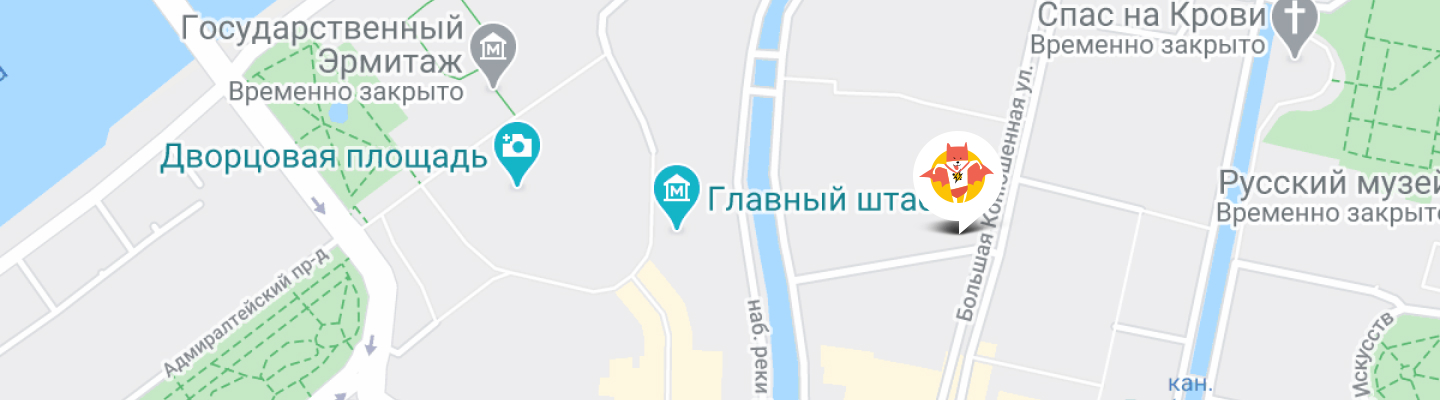
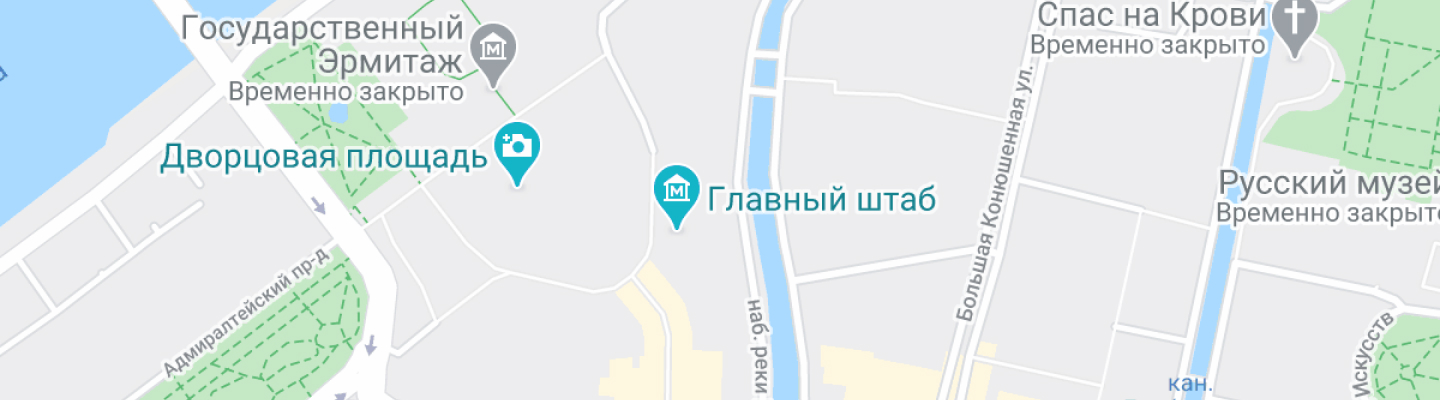
поделал картинки в интро

Changed region(s): [[0.625, 0.36, 0.7188, 0.51], [0.625, 0.54, 0.6875, 0.6]]

diff --git a/source/index.html b/source/index.html
@@ -105,22 +105,16 @@
           </div>
           <div class="explanation">
             <picture>
-              <source media="(min-width: 768px)"
-              srcset="./img/cat-tablet-before@1x.png 1x,
+              <source media="(min-width: 768px)" srcset="./img/cat-tablet-before@1x.png 1x,
               ./img/cat-tablet-before@2x.png 2x">
-              <img class="explanation__image-before" src="./img/cat-mobile-before@1x.png"
-              srcset="./img/cat-mobile-before@1x.png 1x,
-              ./img/cat-mobile-before@2x.png 2x"
-                alt="Фотография тучного кота до приема корма Cat Energy.">
+              <img class="explanation__image-before" src="./img/cat-mobile-before@1x.png" srcset="./img/cat-mobile-before@1x.png 1x,
+              ./img/cat-mobile-before@2x.png 2x" alt="Фотография тучного кота до приема корма Cat Energy.">
             </picture>
             <picture>
-              <source media="(min-width: 768px)"
-              srcset="./img/cat-tablet-after@1x.png 1x,
+              <source media="(min-width: 768px)" srcset="./img/cat-tablet-after@1x.png 1x,
               ./img/cat-tablet-after@2x.png 2x">
-              <img class="explanation__image-after" src="./img/cat-mobile-after@1x.png"
-              srcset="./img/cat-mobile-after@1x.png 1x,
-              ./img/cat-mobile-after@2x.png 2x"
-                alt="Фотография похудевшего кота после приема корма Cat Energy.">
+              <img class="explanation__image-after" src="./img/cat-mobile-after@1x.png" srcset="./img/cat-mobile-after@1x.png 1x,
+              ./img/cat-mobile-after@2x.png 2x" alt="Фотография похудевшего кота после приема корма Cat Energy.">
             </picture>
             <span class="explanation__title">Было</span>
             <input class="explanation__scale" type="range" id="range" min="1" max="100" value="50">
@@ -144,9 +138,12 @@
     </div>
     <div class="footer__adress-map-wrapper">
       <picture>
-        <source media="(min-width: 1000px)" srcset="./img/adress-map-image-desktop.jpg">
-        <source media="(min-width: 768px)" srcset="./img/adress-map-image-tablet.jpg">
-        <img class="footer__address-embeded-map" srcset="./img/adress-map-image-mobile.jpg" alt="Адрес на карте.">
+        <source media="(min-width: 1000px)" srcset="./img/adress-map-image-desktop.jpg 1x,
+          ./img/adress-map-image-desktop@2x.jpg 2x">
+        <source media="(min-width: 768px)"
+          srcset="./img/adress-map-image-tablet.jpg 1x, ./img/adress-map-image-tablet@2x.jpg 2x">
+        <img class="footer__address-embeded-map" src="./img/adress-map-image-mobile.jpg"
+          srcset="./img/adress-map-image-mobile@2x.jpg 2x" alt="Адрес на карте.">
       </picture>
     </div>
     <div class="footer__background-wrapper">
@@ -176,8 +173,12 @@
         </ul>
         <div class="footer__html-academy-wrapper">
           <a href="" class="footer__html-academy-link">
-            <img class="footer__html-academy-logo" src="./img/html-academy-logo-footer.png"
-              alt="Сайт создан HTML-academy." width="163" height="34">
+            <img class="footer__html-academy-logo" src="./img/html-academy-logo-footer.svg"
+              alt="Сайт создан HTML-academy." width="114" height="18">
+          </a>
+          <a href="" class="footer__html-academy-link">
+            <img class="footer__html-academy-logo" src="./img/html-academy-logo-icon-footer.svg"
+              alt="Сайт создан HTML-academy." width="27" height="34">
           </a>
         </div>
       </div>

diff --git a/source/form.html b/source/form.html
@@ -137,9 +137,12 @@
       </div>
       <div class="footer__adress-map-wrapper">
         <picture>
-          <source media="(min-width: 1000px)" srcset="./img/adress-map-image-desktop.jpg">
-          <source media="(min-width: 768px)" srcset="./img/adress-map-image-tablet.jpg">
-          <img class="footer__address-embeded-map" srcset="./img/adress-map-image-mobile.jpg" alt="Адрес на карте.">
+          <source media="(min-width: 1000px)" srcset="./img/adress-map-image-desktop.jpg 1x,
+            ./img/adress-map-image-desktop@2x.jpg 2x">
+          <source media="(min-width: 768px)"
+            srcset="./img/adress-map-image-tablet.jpg 1x, ./img/adress-map-image-tablet@2x.jpg 2x">
+          <img class="footer__address-embeded-map" src="./img/adress-map-image-mobile.jpg"
+            srcset="./img/adress-map-image-mobile@2x.jpg 2x" alt="Адрес на карте.">
         </picture>
       </div>
       <div class="footer__background-wrapper">
@@ -169,8 +172,12 @@
           </ul>
           <div class="footer__html-academy-wrapper">
             <a href="" class="footer__html-academy-link">
-              <img class="footer__html-academy-logo" src="./img/html-academy-logo-footer.png"
-                alt="Сайт создан HTML-academy." width="163" height="34">
+              <img class="footer__html-academy-logo" src="./img/html-academy-logo-footer.svg"
+                alt="Сайт создан HTML-academy." width="114" height="18">
+            </a>
+            <a href="" class="footer__html-academy-link">
+              <img class="footer__html-academy-logo" src="./img/html-academy-logo-icon-footer.svg"
+                alt="Сайт создан HTML-academy." width="27" height="34">
             </a>
           </div>
         </div>

diff --git a/source/catalog.html b/source/catalog.html
@@ -306,9 +306,12 @@
     </div>
     <div class="footer__adress-map-wrapper">
       <picture>
-        <source media="(min-width: 1000px)" srcset="./img/adress-map-image-desktop.jpg">
-        <source media="(min-width: 768px)" srcset="./img/adress-map-image-tablet.jpg">
-        <img class="footer__address-embeded-map" srcset="./img/adress-map-image-mobile.jpg" alt="Адрес на карте.">
+        <source media="(min-width: 1000px)" srcset="./img/adress-map-image-desktop.jpg 1x,
+          ./img/adress-map-image-desktop@2x.jpg 2x">
+        <source media="(min-width: 768px)"
+          srcset="./img/adress-map-image-tablet.jpg 1x, ./img/adress-map-image-tablet@2x.jpg 2x">
+        <img class="footer__address-embeded-map" src="./img/adress-map-image-mobile.jpg"
+          srcset="./img/adress-map-image-mobile@2x.jpg 2x" alt="Адрес на карте.">
       </picture>
     </div>
     <div class="footer__background-wrapper">
@@ -338,8 +341,12 @@
         </ul>
         <div class="footer__html-academy-wrapper">
           <a href="" class="footer__html-academy-link">
-            <img class="footer__html-academy-logo" src="./img/html-academy-logo-footer.png"
-              alt="Сайт создан HTML-academy." width="163" height="34">
+            <img class="footer__html-academy-logo" src="./img/html-academy-logo-footer.svg"
+              alt="Сайт создан HTML-academy." width="114" height="18">
+          </a>
+          <a href="" class="footer__html-academy-link">
+            <img class="footer__html-academy-logo" src="./img/html-academy-logo-icon-footer.svg"
+              alt="Сайт создан HTML-academy." width="27" height="34">
           </a>
         </div>
       </div>

diff --git a/source/less/blocks/intro.less b/source/less/blocks/intro.less
@@ -14,6 +14,10 @@
   background-position-y: 167px, 0, 0;
   background-size: 280px 270px, 100% 302px, 100%;
 
+  @media (min-resolution: 2dppx) {
+    background: url("../img/intro-image-mobile@2x.png") no-repeat center;
+  }
+
   @media (min-width: @tablet-width) {
     width: 92%;
     max-width: @desktop-width - @desktop-gap - @desktop-gap;
@@ -22,9 +26,13 @@
 
     text-align: left;
 
-    background: url("../img/intro-image.png") no-repeat center;
+    background: url("../img/intro-image-tablet.png") no-repeat center;
     background-size: 709px 609px;
     background-position-y: 235px;
+
+    @media (min-resolution: 2dppx) {
+      background: url("../img/intro-image-tablet@2x.png") no-repeat center;
+    }
   }
 
   @media (min-width: @desktop-width) {
@@ -40,6 +48,10 @@
     background-repeat: no-repeat, no-repeat, no-repeat;
     background-position: 55% 214px, 0, 50vw center;
     background-size: 552px 499px, 100vw, contain;
+
+    @media (min-resolution: 2dppx) {
+      background: url("../img/intro-image-desktop@2x.png") no-repeat center;
+    }
   }
 
   @media (min-width: 2000px) {

diff --git a/source/less/blocks/footer.less b/source/less/blocks/footer.less
@@ -58,6 +58,7 @@
   padding: 0;
   width: @mobile-width-only;
   margin-left: -@mobile-gap;
+  object-fit: contain;
 
   @media (min-width: @tablet-width) {
     width: 100vw;
@@ -79,11 +80,14 @@
 
   @media (min-width: @tablet-width) {
     width: 100%;
+
+    padding: 60px 0 56px;
   }
 
   @media (min-width: @desktop-width) {
     position: absolute;
-    top: 95px;
+    top: 50%;
+    transform: translateY(50%);
     max-width: 565px;
 
     z-index: 1;
@@ -173,12 +177,14 @@
 
 .footer__html-academy-wrapper {
   display: flex;
-  margin: 0 auto;
-
+  margin: 0;
+  justify-content: space-between;
+  align-items: center;
   padding: 32px 0;
 
   @media (min-width: @tablet-width) {
-    margin: 0;
+    justify-content: flex-end;
+    column-gap: 22px;
     padding: 63px 0;
   }
 }

diff --git a/source/less/blocks/explanation.less b/source/less/blocks/explanation.less
@@ -1,4 +1,3 @@
-/* stylelint-disable block-no-empty */
 .explanation {
   position: relative;
   margin: 0 auto;
@@ -41,10 +40,6 @@
   }
 }
 
-.explanation__range-wrapper {
-
-}
-
 .explanation__title {
   font-family: @font;
   font-style: @font-style;
@@ -52,16 +47,4 @@
   font-size: 16px;
   line-height: 20px;
   color: @font-color;
-}
-
-.explanation__scale {
-
-}
-
-.explanation__slider {
-
-}
-
-.explanation__slider--current {
-
 }

diff --git a/source/less/blocks/program-radio.less b/source/less/blocks/program-radio.less
@@ -1,5 +1,3 @@
-/* stylelint-disable block-closing-brace-space-after */
-/* stylelint-disable block-no-empty */
 .program-radio {
   display: flex;
   flex-direction: column;
@@ -37,9 +35,3 @@
     line-height: 30px;
   }
 }
-
-.program-radio__weight-loss-input,
-.program-radio__weight-gain-input,
-.program-radio__need-advice-input {}
-
-.program-radio__control-label {}

diff --git a/source/less/blocks/additional-demands.less b/source/less/blocks/additional-demands.less
@@ -1,6 +1,3 @@
-/* stylelint-disable block-closing-brace-space-after */
-/* stylelint-disable no-eol-whitespace */
-/* stylelint-disable block-no-empty */
 .additional-demands {
   display: flex;
   flex-direction: column;
@@ -65,8 +62,4 @@
   @media (min-width: @tablet-width) {
     margin-right: 19px;
   }
-}
-
-.additional-demands__control-label {
-
 }

diff --git a/source/less/blocks/form.less b/source/less/blocks/form.less
@@ -1,5 +1,3 @@
-/* stylelint-disable block-closing-brace-space-after */
-/* stylelint-disable block-no-empty */
 .form {
   margin: 0 auto;
   padding: 0;
@@ -116,11 +114,7 @@
 .form__button {
   border: 0;
   width: 100%;
-
-  @media (min-width: @tablet-width) {}
 }
-
-.form__button-description {}
 
 .form__underline {
   position: relative;

diff --git a/source/less/blocks/catalog-other-goods.less b/source/less/blocks/catalog-other-goods.less
@@ -1,4 +1,3 @@
-/* stylelint-disable block-no-empty */
 .catalog-other-goods {
   margin: 0 auto;
 
@@ -129,7 +128,7 @@
   background-size: cover;
 
   @media (min-width: @tablet-width) {
-    width: 100%;
+    width: 100vw;
     background: url("../img/gift-background-tablet.jpg") center no-repeat;
   }
 

diff --git a/source/less/style.less b/source/less/style.less
@@ -12,9 +12,7 @@
 @import "./blocks/fonts.less";
 @import "./blocks/footer.less";
 @import "./blocks/form.less";
-@import "./blocks/header.less";
 @import "./blocks/intro.less";
-@import "./blocks/main.less";
 @import "./blocks/nav.less";
 @import "./blocks/owner-data.less";
 @import "./blocks/page.less";

diff --git a/source/less/blocks/programs.less b/source/less/blocks/programs.less
@@ -1,4 +1,3 @@
-/* stylelint-disable block-no-empty */
 .programs {
   margin: 0 auto;
   padding: 0;
@@ -125,10 +124,6 @@
 
   @media (min-width: @tablet-width) {
     min-width: 340px;
-  }
-
-  @media (min-width: 1000px) {
-
   }
 
   @media (min-width: @tablet-width) {
